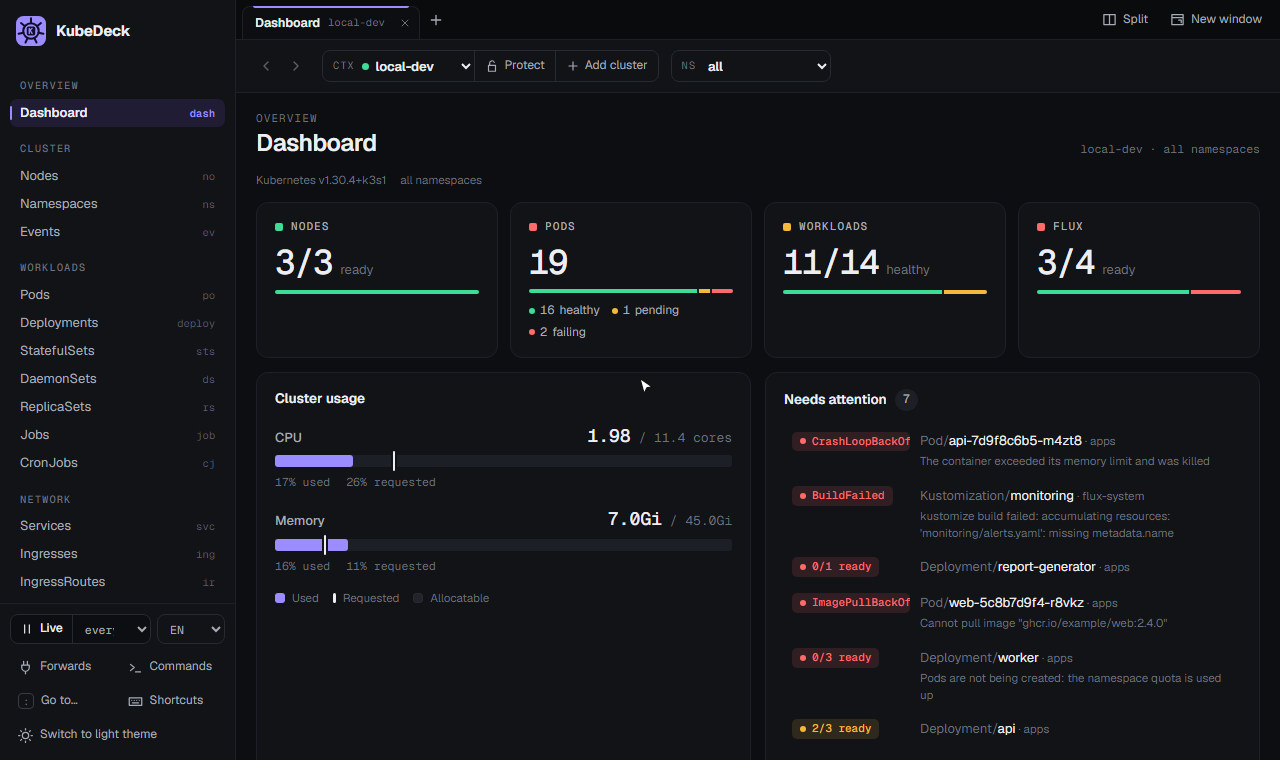
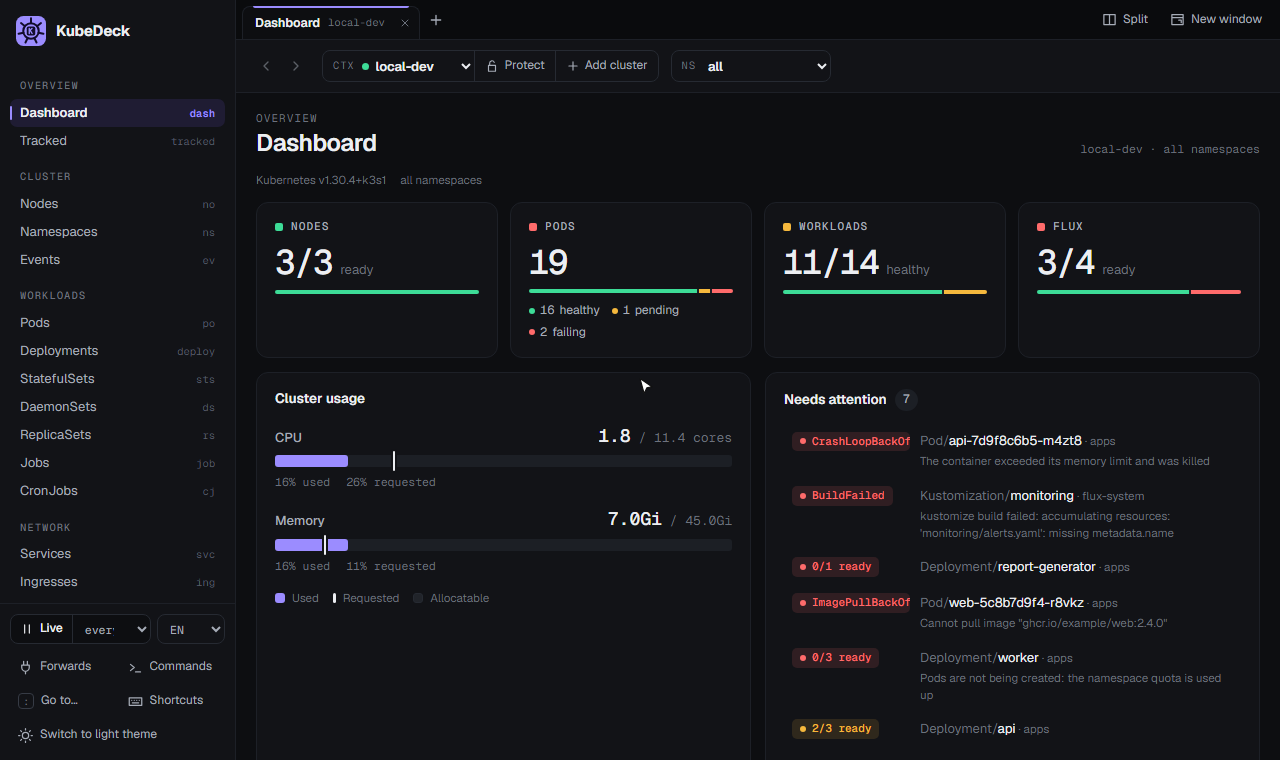
feat: add CPU and memory usage metrics for pods in the dashboard (#8)
* feat: add CPU and memory usage metrics for pods in the dashboard

* feat: bump version to 1.1.0 in package.json and package-lock.json

* Refactor code structure for improved readability and maintainability

diff --git a/web/src/catalog.ts b/web/src/catalog.ts
@@ -1,15 +1,20 @@
 import {
-  age, condition, images, podStatus, ratio, readyCount, readyState, restarts, shortImage, ts, type Tone,
+  age, bytes, condition, cores, images, podStatus, ratio, readyCount, readyState, restarts, shortImage, ts, type Tone,
 } from './format';
 import { t, tryT, type MessageKey } from './i18n';
 
 /** `plain`: render the tone as colored text instead of a badge. */
-export type Cell = string | number | { text: string; tone?: Tone; title?: string; plain?: boolean };
+/** Mini bar under the text: `used` and `mark` are fractions (0-1) of the bar's full width. */
+export interface CellBar { used: number; mark?: number; tone: 'ok' | 'warm' | 'hot' }
+
+export type Cell = string | number | { text: string; tone?: Tone; title?: string; plain?: boolean; bar?: CellBar };
 
 export interface Column {
   key: string;
   /** Message key of the column header. */
   label: MessageKey;
+  /** Message key of a tooltip that explains the column. */
+  hint?: MessageKey;
   get: (o: any) => Cell;
   sort?: (o: any) => string | number;
   mono?: boolean;
@@ -79,6 +84,39 @@ const revisionCol = (path: (o: any) => string | undefined): Column => ({
     return { text: rev.length > 40 ? `${rev.slice(0, 40)}…` : rev, title: rev };
   },
 });
+
+/**
+ * Current usage of a pod, compared with what it asked for (request) and may use at most (limit).
+ * The bar fills toward the limit (or the request when there is no limit); the tick marks the request.
+ */
+export function usageCell(o: any, res: 'cpu' | 'memory'): Cell {
+  const used: number | undefined = o.usage?.[res];
+  if (used === undefined) return { text: '—', title: t('usage.unavailable') };
+  const fmt = res === 'cpu' ? cores : bytes;
+  const req: number = o.usage.requests?.[res] ?? 0;
+  const lim: number = o.usage.limits?.[res] ?? 0;
+  const pct = (v: number) => Math.round((used / v) * 100);
+
+  const tip = [t('usage.using', { value: fmt(used) })];
+  tip.push(req ? t('usage.request', { value: fmt(req), pct: pct(req) }) : t('usage.noRequest'));
+  tip.push(lim ? t('usage.limit', { value: fmt(lim), pct: pct(lim) }) : t('usage.noLimit'));
+
+  let tone: CellBar['tone'] = 'ok';
+  if (lim && used >= lim * 0.9) {
+    tone = 'hot';
+    tip.push(t(res === 'cpu' ? 'usage.nearLimit.cpu' : 'usage.nearLimit.memory'));
+  } else if (req && used > req) {
+    tone = 'warm';
+    tip.push(t('usage.aboveRequest'));
+  }
+
+  const max = lim || req;
+  return {
+    text: fmt(used) + (req ? ` · ${pct(req)}%` : ''),
+    title: tip.join('\n'),
+    bar: max ? { used: Math.min(1, used / max), mark: lim && req ? req / lim : undefined, tone } : undefined,
+  };
+}
 
 const workloadActions: ActionName[] = ['restart', 'scale'];
 const fluxActions: ActionName[] = ['reconcile', 'suspend', 'resume'];
@@ -157,6 +195,16 @@ export const KINDS: Kind[] = [
         key: 'restarts', label: 'col.restarts', align: 'right',
         get: (o) => { const n = restarts(o); return { text: String(n), tone: n > 5 ? 'err' : n > 0 ? 'warn' : 'muted', plain: true }; },
         sort: (o) => -restarts(o),
+      },
+      {
+        key: 'cpu', label: 'col.cpu', hint: 'col.cpu.hint', align: 'right', mono: true,
+        get: (o) => usageCell(o, 'cpu'),
+        sort: (o) => o.usage?.cpu ?? -1,
+      },
+      {
+        key: 'memory', label: 'col.memory', hint: 'col.memory.hint', align: 'right', mono: true,
+        get: (o) => usageCell(o, 'memory'),
+        sort: (o) => o.usage?.memory ?? -1,
       },
       { key: 'ip', label: 'col.ip', mono: true, get: (o) => o.status?.podIP ?? '' },
       { key: 'node', label: 'col.node', get: (o) => o.spec?.nodeName ?? '' },

diff --git a/server/podmetrics.ts b/server/podmetrics.ts
@@ -1,0 +1,66 @@
+import { kubectl, checkName } from './kube.js';
+import { parseCpu, parseMemory } from './quantity.js';
+
+export const METRICS_API = '/apis/metrics.k8s.io/v1beta1';
+
+export interface PodUsage {
+  /** Cores. */
+  cpu: number;
+  /** Bytes. */
+  memory: number;
+  containers: Record<string, { cpu: number; memory: number }>;
+}
+
+export async function rawJson(ctx: string, path: string): Promise<any> {
+  return JSON.parse(await kubectl(ctx, ['get', '--raw', path]));
+}
+
+/**
+ * Current usage per pod from metrics-server, keyed `namespace/name`.
+ * Best effort: without metrics-server (or without permission) the map is empty and the UI shows a dash.
+ */
+export async function podUsage(ctx: string, ns?: string, name?: string): Promise<Map<string, PodUsage>> {
+  const all = !ns || ns === '*';
+  const path = all
+    ? `${METRICS_API}/pods`
+    : `${METRICS_API}/namespaces/${checkName(ns, 'namespace')}/pods${name ? `/${checkName(name, 'name')}` : ''}`;
+  const out = new Map<string, PodUsage>();
+  try {
+    const data = await rawJson(ctx, path);
+    for (const m of data.items ?? [data]) {
+      const usage: PodUsage = { cpu: 0, memory: 0, containers: {} };
+      for (const c of m.containers ?? []) {
+        const cpu = parseCpu(c.usage?.cpu);
+        const memory = parseMemory(c.usage?.memory);
+        usage.cpu += cpu;
+        usage.memory += memory;
+        usage.containers[c.name] = { cpu, memory };
+      }
+      out.set(`${m.metadata?.namespace}/${m.metadata?.name}`, usage);
+    }
+  } catch {
+    // metrics unavailable
+  }
+  return out;
+}
+
+/** Sets `usage` on each pod that has a metrics sample. */
+export function attachUsage(pods: any[], usage: Map<string, PodUsage>) {
+  for (const pod of pods) {
+    const u = usage.get(`${pod.metadata?.namespace}/${pod.metadata?.name}`);
+    if (!u) continue;
+    const containers: any[] = pod.spec?.containers ?? [];
+    // 0 means "not set": a total only counts when every container defines it.
+    const sum = (kind: 'requests' | 'limits', res: 'cpu' | 'memory') => {
+      const parse = res === 'cpu' ? parseCpu : parseMemory;
+      return containers.every((c) => c.resources?.[kind]?.[res])
+        ? containers.reduce((s, c) => s + parse(c.resources[kind][res]), 0)
+        : 0;
+    };
+    pod.usage = {
+      ...u,
+      requests: { cpu: sum('requests', 'cpu'), memory: sum('requests', 'memory') },
+      limits: { cpu: sum('limits', 'cpu'), memory: sum('limits', 'memory') },
+    };
+  }
+}

diff --git a/web/src/components/Overview.tsx b/web/src/components/Overview.tsx
@@ -1,6 +1,7 @@
 import { useState, type ReactNode } from 'react';
-import { kindByName } from '../catalog';
-import { age, dateTime, podStatus, readyState, type Tone } from '../format';
+import { kindByName, usageCell } from '../catalog';
+import { renderCell } from './ResourceTable';
+import { age, bytes, cores, dateTime, podStatus, readyState, type Tone } from '../format';
 import type { DiagAction } from '../diagnosis';
 import { t } from '../i18n';
 import { DiagnosisPanel } from './DiagnosisPanel';
@@ -30,6 +31,8 @@ export function Overview({ ctx, obj, onNavigate, onDiagnosisAction }: Props) {
         {obj.kind !== 'Pod' && ready.text !== '—' && <Fact label={t('ov.status')}><Badge tone={ready.tone} title={ready.message}>{ready.text}</Badge></Fact>}
         {obj.kind === 'Pod' && <Fact label={t('ov.node')}>{obj.spec?.nodeName}</Fact>}
         {obj.kind === 'Pod' && <Fact label={t('ov.ip')}>{obj.status?.podIP}</Fact>}
+        {obj.kind === 'Pod' && obj.usage && <Fact label="CPU"><UsageFact obj={obj} res="cpu" /></Fact>}
+        {obj.kind === 'Pod' && obj.usage && <Fact label={t('ov.memory')}><UsageFact obj={obj} res="memory" /></Fact>}
         {obj.spec?.replicas !== undefined && (
           <Fact label={t('ov.replicas')}>{t('ov.replicasValue', { ready: obj.status?.readyReplicas ?? 0, total: obj.spec.replicas })}</Fact>
         )}
@@ -87,6 +90,11 @@ function conditionTone(c: any): Tone {
   return 'warn';
 }
 
+function UsageFact({ obj, res }: { obj: any; res: 'cpu' | 'memory' }) {
+  const cell = usageCell(obj, res);
+  return typeof cell === 'object' ? renderCell(cell) : <>{cell}</>;
+}
+
 function Fact({ label, children }: { label: string; children: ReactNode }) {
   return (
     <div className="fact">
@@ -130,6 +138,11 @@ function PodContainers({ pod }: { pod: any }) {
                 </div>
               )}
               <Resources c={c} />
+              {pod.usage?.containers?.[c.name] && (
+                <div className="small muted">
+                  {t('ov.usage', { cpu: cores(pod.usage.containers[c.name].cpu), memory: bytes(pod.usage.containers[c.name].memory) })}
+                </div>
+              )}
             </div>
           );
         })}

diff --git a/web/src/i18n/pt-BR.ts b/web/src/i18n/pt-BR.ts
@@ -89,6 +89,19 @@ export const ptBR: Messages = {
   'col.count': 'Qtd',
   'col.ready': 'Prontos',
   'col.restarts': 'Restarts',
+  'col.cpu': 'CPU',
+  'col.memory': 'Memória',
+  'col.cpu.hint': 'CPU em uso agora. A porcentagem mostra quanto da CPU solicitada o pod está usando. A barra enche em direção ao limite; o traço marca o que foi solicitado.',
+  'col.memory.hint': 'Memória em uso agora. A porcentagem mostra quanto da memória solicitada o pod está usando. A barra enche em direção ao limite; o traço marca o que foi solicitado.',
+  'usage.unavailable': 'Sem dados de uso. As métricas podem estar indisponíveis para este pod.',
+  'usage.using': 'Em uso agora: {value}',
+  'usage.request': 'Solicitado (reservado para o pod): {value}. Usando {pct}% disso.',
+  'usage.noRequest': 'Sem request definido, nada está reservado para este pod.',
+  'usage.limit': 'Limite (máximo permitido): {value}. Usando {pct}% dele.',
+  'usage.noLimit': 'Sem limite definido, o pod pode usar o quanto o node tiver.',
+  'usage.aboveRequest': 'Acima do solicitado: usando mais do que foi reservado.',
+  'usage.nearLimit.cpu': 'Perto do limite: o pod será desacelerado (throttling).',
+  'usage.nearLimit.memory': 'Perto do limite: o pod pode ser encerrado (OOMKilled).',
   'col.ip': 'IP',
   'col.node': 'Node',
   'col.upToDate': 'Atualizados',
@@ -211,6 +224,8 @@ export const ptBR: Messages = {
   'ov.created': 'Criado',
   'ov.status': 'Status',
   'ov.node': 'Node',
+  'ov.memory': 'Memória',
+  'ov.usage': 'Uso: cpu {cpu} · mem {memory}',
   'ov.ip': 'IP',
   'ov.replicas': 'Réplicas',
   'ov.replicasValue': '{ready} prontas de {total}',

diff --git a/web/src/i18n/en.ts b/web/src/i18n/en.ts
@@ -88,6 +88,19 @@ export const en = {
   'col.count': 'Count',
   'col.ready': 'Ready',
   'col.restarts': 'Restarts',
+  'col.cpu': 'CPU',
+  'col.memory': 'Memory',
+  'col.cpu.hint': 'CPU in use right now. The percentage is how much of the requested CPU the pod is using. The bar fills toward the limit; the tick marks the request.',
+  'col.memory.hint': 'Memory in use right now. The percentage is how much of the requested memory the pod is using. The bar fills toward the limit; the tick marks the request.',
+  'usage.unavailable': 'No usage data. Metrics may be unavailable for this pod.',
+  'usage.using': 'In use now: {value}',
+  'usage.request': 'Requested (reserved for the pod): {value}. Using {pct}% of it.',
+  'usage.noRequest': 'No request set, nothing is reserved for this pod.',
+  'usage.limit': 'Limit (maximum allowed): {value}. Using {pct}% of it.',
+  'usage.noLimit': 'No limit set, the pod can use as much as the node has.',
+  'usage.aboveRequest': 'Above the request: using more than was reserved.',
+  'usage.nearLimit.cpu': 'Close to the limit: the pod will be slowed down (throttled).',
+  'usage.nearLimit.memory': 'Close to the limit: the pod may be killed (OOMKilled).',
   'col.ip': 'IP',
   'col.node': 'Node',
   'col.upToDate': 'Up-to-date',
@@ -210,6 +223,8 @@ export const en = {
   'ov.created': 'Created',
   'ov.status': 'Status',
   'ov.node': 'Node',
+  'ov.memory': 'Memory',
+  'ov.usage': 'Usage: cpu {cpu} · mem {memory}',
   'ov.ip': 'IP',
   'ov.replicas': 'Replicas',
   'ov.replicasValue': '{ready} ready of {total}',

diff --git a/web/src/components/ResourceTable.tsx b/web/src/components/ResourceTable.tsx
@@ -138,7 +138,7 @@ export function ResourceTable({ kind, items, filter, showNamespace, selectedKey,
           <tr>
             {leading && <th className="lead-cell" />}
             {columns.map((c) => (
-              <th key={c.key} className={`${c.align === 'right' ? 'right' : ''}${c.grow ? ' grow' : ''}`} onClick={() => toggleSort(c)}>
+              <th key={c.key} className={`${c.align === 'right' ? 'right' : ''}${c.grow ? ' grow' : ''}`} title={c.hint ? t(c.hint) : undefined} onClick={() => toggleSort(c)}>
                 {t(c.label)}
                 {sort.key === c.key && <span className="sort">{sort.dir === 1 ? '▲' : '▼'}</span>}
               </th>
@@ -189,5 +189,16 @@ export function renderCell(c: Cell) {
   if (typeof c !== 'object') return c;
   if (c.tone && c.plain) return <span className={`mono tone-${c.tone}`} title={c.title}>{c.text}</span>;
   if (c.tone) return <Badge tone={c.tone} title={c.title}>{c.text}</Badge>;
+  if (c.bar) {
+    return (
+      <div className="usage-cell" title={c.title}>
+        <span>{c.text}</span>
+        <div className="meter-track">
+          <div className={`meter-fill${c.bar.tone === 'ok' ? '' : ` ${c.bar.tone === 'warm' ? 'warm' : 'hot'}`}`} style={{ width: `${c.bar.used * 100}%` }} />
+          {c.bar.mark !== undefined && <div className="meter-req" style={{ left: `${c.bar.mark * 100}%` }} />}
+        </div>
+      </div>
+    );
+  }
   return <span title={c.title}>{c.text}</span>;
 }

diff --git a/server/resources.ts b/server/resources.ts
@@ -1,5 +1,6 @@
 import { AppError, invalid } from './errors.js';
 import { checkName, checkType, kubectl, kubectlJson, nsArgs, run } from './kube.js';
+import { attachUsage, podUsage } from './podmetrics.js';
 
 // ---- contexts ---------------------------------------------------------------
 
@@ -134,6 +135,7 @@ export async function listObjects(ctx: string, type: string, ns: string | undefi
   const data = await kubectlJson(ctx, args, { timeoutMs: 30_000 });
   const items: any[] = data.items ?? [];
   for (const item of items) sanitize(item);
+  if (type === 'pods') attachUsage(items, await podUsage(ctx, ns));
   return { namespaced, items };
 }
 
@@ -168,6 +170,7 @@ export function getYaml(ctx: string, type: string, name: string, ns?: string) {
 export async function getJson(ctx: string, type: string, name: string, ns?: string) {
   const obj = await kubectlJson(ctx, ['get', ...objectArgs(type, name, ns)]);
   sanitize(obj);
+  if (type === 'pods' && ns) attachUsage([obj], await podUsage(ctx, ns, name));
   return obj;
 }
 

diff --git a/server/dashboard.ts b/server/dashboard.ts
@@ -1,6 +1,7 @@
 import { AppError } from './errors.js';
 import { checkName, kubectl, kubectlJson, nsArgs } from './kube.js';
 import { parseCpu, parseMemory } from './quantity.js';
+import { METRICS_API, rawJson } from './podmetrics.js';
 import { discover } from './resources.js';
 
 /** Each dashboard section loads independently, so one forbidden call doesn't blank the page. */
@@ -17,7 +18,6 @@ async function part<T>(work: () => Promise<T>): Promise<Part<T>> {
   }
 }
 
-const METRICS_API = '/apis/metrics.k8s.io/v1beta1';
 
 function resources(containers: any[] | undefined) {
   let cpu = 0;
@@ -80,10 +80,6 @@ function slimObject(o: any) {
     spec: { replicas: o.spec?.replicas, suspend: o.spec?.suspend },
     status: o.status ?? {},
   };
-}
-
-async function rawJson(ctx: string, path: string): Promise<any> {
-  return JSON.parse(await kubectl(ctx, ['get', '--raw', path]));
 }
 
 export async function dashboard(ctx: string, ns: string | undefined) {

diff --git a/web/src/tracked.ts b/web/src/tracked.ts
@@ -18,6 +18,8 @@ export const TRACK_FIELDS: TrackField[] = [
   { id: 'status', label: 'col.status', get: podColumn('status') },
   { id: 'ready', label: 'col.ready', get: podColumn('ready') },
   { id: 'restarts', label: 'col.restarts', get: podColumn('restarts') },
+  { id: 'cpu', label: 'col.cpu', get: podColumn('cpu') },
+  { id: 'memory', label: 'col.memory', get: podColumn('memory') },
   { id: 'node', label: 'col.node', get: podColumn('node') },
   { id: 'ip', label: 'col.ip', get: podColumn('ip') },
   { id: 'age', label: 'col.age', get: podColumn('age') },

diff --git a/web/src/screens.css b/web/src/screens.css
@@ -234,3 +234,7 @@
 .diag-actions { display: flex; flex-wrap: wrap; gap: 6px; }
 .diag.compact .diag-body { padding-top: 10px; }
 .problem-detail { white-space: normal; display: -webkit-box; -webkit-line-clamp: 2; -webkit-box-orient: vertical; }
+
+.usage-cell { display: flex; flex-direction: column; align-items: stretch; gap: 3px; min-width: 96px; }
+.usage-cell .meter-track { flex: none; height: 5px; }
+.usage-cell .meter-req { top: -2px; bottom: -2px; }

diff --git a/README.md b/README.md
@@ -123,6 +123,22 @@ what to do. One click opens the previous logs, the YAML or the events. It recogn
 
 The dashboard's *Needs attention* list shows the short version of each diagnosis.
 
+### Pod CPU and memory
+
+<img src="docs/media/pods.gif" alt="The pods list with CPU and memory in use, a bar against each pod's request and limit, sorted by usage" width="100%">
+
+The pods list and each pod's Overview show the CPU and memory in use right now, next to what the pod asked for
+(its request) and the most it may use (its limit). The bar fills toward the limit and a tick marks the request;
+it turns amber above the request and red close to the limit. Hover a column header or a cell for a plain
+explanation of each number (needs `metrics-server`).
+
+### Favorite pods
+
+<img src="docs/media/favorites.gif" alt="Starring a pod, then the Tracked screen with cards, a field picker adding CPU and memory, and the list view" width="100%">
+
+Star a pod in Workloads › Pods or in its details and it shows up on the *Tracked* screen, across contexts and
+namespaces, as cards or as a list. Pick which facts each card shows, including CPU and memory.
+
 ### Live logs
 
 <img src="docs/media/logs.gif" alt="Streaming logs with level badges, timestamps and search" width="100%">
